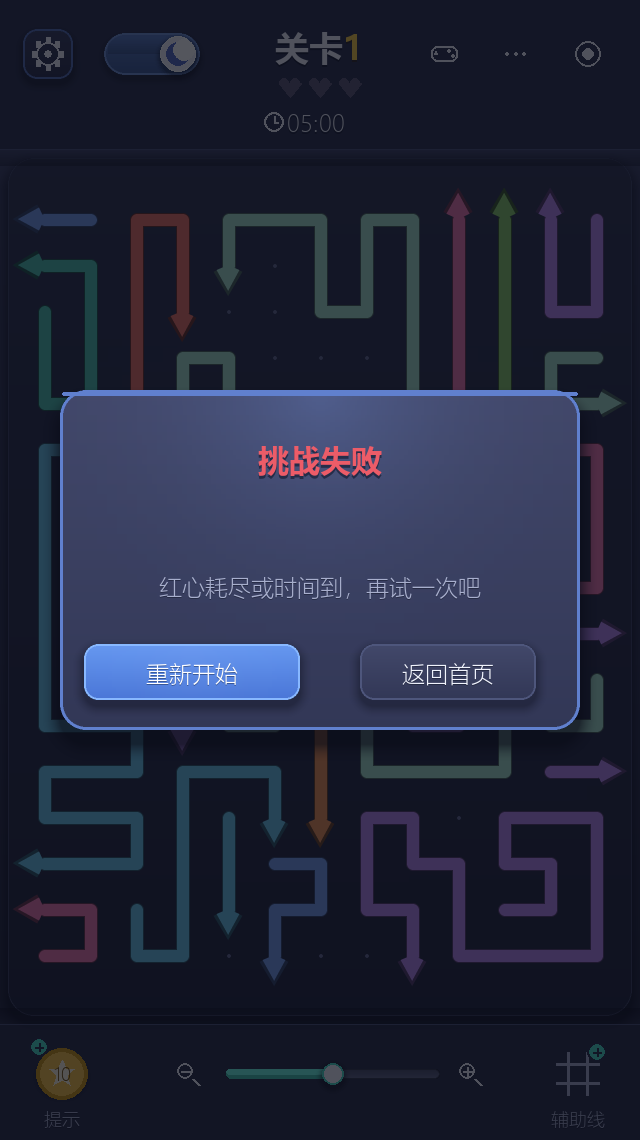
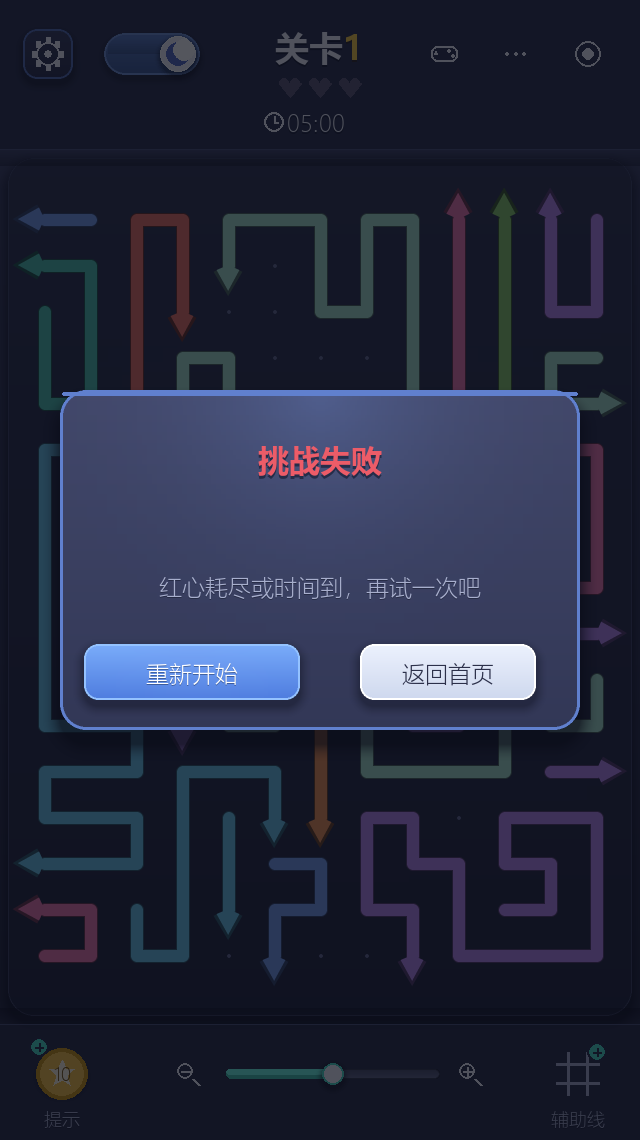
docs: 规则页排版修复与柔雾背景的说明、测试记录 T17、AIGC 记录，重出截图
- README：新增按钮配色（主次深浅反过来）与文字排版两节；界面观感一节补柔雾；
  344 -> 352 个用例
- docs/design.md：8.2 重写为「渐变 + 柔雾 + 柔光」（含「为什么对局中不铺雾」
  与「为什么预合成」）、8.4 补主次按钮配色表、8.6 性能表更新、新增 8.8
  「文字排版：按宽度折行」（切单元 / 贪心 / 均衡 / 避头尾 / 按内容排版）
- docs/test-record.md：标题升到 T01–T17、汇总 352 passed，新增 T17
  （含两条测试基建的坑：圆角外的底板污染「最暗像素」、日间的雾是压暗不是提亮）
- AIGC记录.md：汇总表新增第 21 行（规则页排版）与第 22 行（背景柔雾 + 按键配色）
- 截图重出 9 张（规则页排版与配色都变了）

Changed region(s): [[0.5625, 0.5526, 0.8438, 0.614]]

diff --git a/AIGC记录.md b/AIGC记录.md
@@ -30,6 +30,8 @@
 | 18 | 棋盘格子数加密到约 1.4 倍 | DeepSeek | 玩家要求「棋盘格子数增加」 | 先按 640×1140 画布实算三档密度再让用户选（格子 44→31→24 px、线宽 13→9→7 px），选了中间的 1.4 倍档；字母关 `DEFAULT_SCALE` 2→3（16×12 → **23×17**，391 格），基础关尺寸整体放大（12×9 → 17×13，最大到 25×19），随机关尺寸表同步放大；`MAX_PIECE` 14→20（笔画变宽，一支箭可以吃更长） | 棋盘更精细、字母弧线明显平滑；箭数 15.9 → 29.0（平均）；全量 338 个用例通过；最贵一档整帧 3.32 → 6.02 ms，仍在 16.7 ms 预算的三分之一；放大到最大时 12 关全部不横向溢出 | 加密本身没动几何计算（格子按可视区反算，改数据即可），但把**生成参数**带偏了：难度曲线出现小反转 —— 每关都在自己上限内独立挑「最满」的一版，实际值可能反而比上一关高。修法是上限跟着上一关**实际值**往下压，且压不动时**换种子重试**，并按 `(是否满足上限, 填充率)` 取最优（只压难度会让填充率掉到 0.887） |
 | 19 | 顶栏靶心按钮改「返回来处」 | DeepSeek | 玩家反馈「随机关卡，点圆圈没有退回到首页，又退回到基础关卡选择页面」 | 第 17 行只把它改成「按 `self.track` 分派」，而随机关卡借用了 basic 这条线，于是仍被当成基础关塞进基础选关页。这次改成认**来路**：`main.py` 加 `self.play_origin`，三个入口各自登记（基础选关页 / 字母选关页 / 开始页），靶心改接新的 `leave_level()` 按来路分派 | 基础 → 基础选关页、字母 → 字母选关页、随机 → **开始页**；新增 2 条回归用例（含「玩过随机之后再进基础关，来路不会被上一次污染」），改 1 条；全量 344 个用例通过 | 「按当前模式分派」对**不属于任何模式的入口**天然失灵 —— 随机关没有自己的选关页，只能借用别人的，于是永远回错。凡是「返回」语义，记来路比猜模式可靠；第 17 行只修了「回错哪一页」，没问「它本来该回哪一页」 |
 | 20 | 标题改成卡通贴纸风拼装艺术字 | DeepSeek | 玩家给了一张参考截图：「开始界面的艺术字我想要截图这里面类似的」（奶白字面 + 粗黑描边 + 浅色外圈，两个「一」是红 / 蓝圆头横杠，末尾「箭」换绿色） | `art_text` 新增 `outline2` / `outline2_width`（外圈铺大圆盘、内圈盖上去，只留一圈宽）与 `lift`（描边整体下移、字面不动 → 底部边更厚，字浮在边上）；新增 `art_bar`（圆头胶囊横条，`pad` 算法与 `art_text` 逐项对齐）与 `art_banner`（横向按**墨迹边界**排布，避免每片四周的描边留白变成片间距）；`theme` 补 5 个配色字段，日夜各一套 | 标题从「一段渐变文字」变成五片拼装（红条 / 箭 / 又 / 蓝条 / 绿箭），占屏宽 79%；全量 344 个用例通过；开始页整帧 2.90 ms | 中间挖出两个坑：① 描边宽度一直用的是「超采样像素」而 `pad` 是「原始像素」，两边没统一，标称 6 px 的描边实际只有 2 px、外圈细到缩回后被平均成灰色；② 单位统一后圆盘半径变 18，逐点 blit 一次 42 ms、整页首帧 210 ms，改在 1/2 分辨率做膨胀再放大回来，首帧降到 62 ms |
+| 21 | 规则页「怎么玩」文字排布 | DeepSeek | 玩家反馈「玩法规则这一页怎么玩这一栏文字排布不对」 | 根因是正文**写死一行**：26 字 × 23 px = 598 px，而卡片内宽只有 540 px，句子直接画到卡片外面（不报错、不抛异常、测试也照样过）；按键表右列的「缩放棋盘（也可用 - 与 =）」同样超出 8 px。新增 `paint.wrap_text()`（切单元 → 贪心 → **二分有效宽度做均衡** → 避头尾），规则页改成 `_compute_rules_layout()` **按内容累加**：先折行拿到正文行数，再据此算每块面板的高度，结果算一次缓存 | 三句话各折成两行且宽度摊匀（322/299、299/299、299/276），标点不落行首，全角括号整段不拆；三块面板依次下移、返回按钮跟着走；新增 8 条用例（含「量文字实际渲染宽度」的核心回归），全量 352 个用例通过 | 纯贪心折出的是「满满一行 + 两三个字的尾巴」（`…方向飞出` / `…颗红心` / `…失败`），很难看 —— 均衡折行才是对的做法；这类溢出**不会报错**，只能靠「量渲染宽度」的测试兜住 |
+| 22 | 背景柔雾 + 按键配色 | DeepSeek | 玩家要求「开始界面的背景换成跟截图里面类似的（但要有一定改动），按键配色也是」 | 先逐像素采样参考图，确认它用的就是本项目的**日间**配色（按钮蓝 `117,166,243 → 89,140,228`、文字 `42,46,70`、进度条 `38,176,164` 全部对得上），于是方向定为「同一套结构，夜间换深色底」。新增 `Palette.fog`（四团错开的柔雾，**只在非对局界面**铺 —— 对局中会压住棋盘）、`paint.fog_layer()` 预合成成一张整屏贴图；新增 `Palette.ghost_*`，次要按钮从「深底白字」改成**浅色纸片 + 深字**（夜间的纸片是浅蓝白，纯白会晃眼） | 菜单类界面有了雾面层次，开始页按钮是「蓝 / 白 / 蓝 / 白」的节奏；柔雾让开始页 2.90 → 4.15 ms，预合成之后回到 3.38 ms；新增 2 条用例，全量 352 个通过 | 日间的雾是**压暗**而不是提亮（浅底叠淡蓝会降亮度），断言不能假定方向；旧的「次按钮比主按钮暗」那条断言的前提随设计反转一起作废，改成量「纸片比蓝底亮 / 蓝底明显偏蓝 / 纸片上是深字」 |
 
 ---
 

diff --git a/docs/test-record.md b/docs/test-record.md
@@ -1,8 +1,8 @@
-# 测试记录（T01 – T16）
+# 测试记录（T01 – T17）
 
 - 运行环境：Windows 11 / Python 3.14.0 / pygame-ce 2.5.8 / pytest 9.x
 - 运行方式：项目根目录执行 `python -m pytest -q`（测试在 SDL dummy 驱动下无窗口运行）
-- 汇总结果：**344 passed**，耗时约 16.0 s
+- 汇总结果：**352 passed**，耗时约 22.3 s
 
 ---
 
@@ -501,6 +501,58 @@
 
 ---
 
+## T17 规则页文字排版 + 柔雾背景 + 按键配色
+
+- **缘起**：玩家反馈三件事 ——
+  1. 「玩法规则」页的「怎么玩」那一栏**文字排布不对**；
+  2. 开始页的背景换成参考图那种（原话：「换成跟截图里面类似的，但要有一定改动」）；
+  3. 按键配色也是。
+- **改了**：
+  - `paint.wrap_text()`：按像素宽度折行 —— 切单元（连续的 ASCII 一个单元、一对全角
+    括号连同内容一个单元）→ 贪心 → **二分有效宽度做均衡** → 避头尾；
+  - 规则页改成**按内容排版**：`_compute_rules_layout()` 先折行拿到正文行数，据此算
+    「怎么玩」的高度，后面两块面板依次往下排，结果算一次缓存起来；按键功能表的说明
+    同样折行；
+  - `Palette.fog`：四团错开的柔雾，**只在非对局界面**铺；`paint.fog_layer()` 把它
+    预合成成一张整屏贴图，每帧一次 blit；
+  - `Palette.ghost_*`：次要按钮从「跟卡片同色的深底白字」改成**浅色纸片 + 深字**。
+- **用例**：
+  1. **折行不超宽**：四档宽度下每行都不超过给定宽度，且**一个字都不丢**；
+  2. **均衡**：`清空本关全部线段即通关；红心耗尽或倒计时归零则失败` 在 540 px 下应是
+     2 行、且短行不短于长行的 75%（纯贪心会是 529 + 46）；
+  3. **避头尾**：除第一行外，任何一行都不以 `，。、；：？！）】》」』` 开头；
+  4. **括号不拆**：`缩放棋盘（也可用 - 与 =）` 折成 `缩放棋盘` + `（也可用 - 与 =）`；
+     放得下时（`显示 / 隐藏辅助线`）不许没事找事地折；
+  5. **规则页文字不溢出**（核心回归）：量的是 `font.size(line)[0] <= 卡片内宽`，
+     覆盖「怎么玩」正文与按键表十个条目；
+  6. **面板依次堆叠**不重叠，返回按钮的位置与版式一致；
+  7. **版式只算一次**（同一对象），不许每帧重算折行；
+  8. **柔雾**：菜单类界面上雾确实改变了那一点的颜色（|Δ| > 12），
+     **对局中那一点就是纯渐变**（|Δ| ≤ 2）；
+  9. `Palette` 新字段（`ghost_*` / `fog`）的格式校验，且纸片一定「底比字亮」。
+- **预期**：全部通过。
+- **实际**：
+  - 先按纯贪心折行出了图，发现三句话都折成「满满一行 + 两三个字的尾巴」
+    （`…方向飞出` / `…颗红心` / `…失败`），很难看 —— 于是补了均衡折行；
+  - 又发现按键表的 `缩放棋盘（也可用 - 与 =）` 折在「（也」中间，于是把全角括号
+    连同内容做成一个不可拆单元，折成「缩放棋盘 /（也可用 - 与 =）」；
+  - 老的一条断言 `test_ghost_button_is_quieter_than_the_primary_one` 挂了 —— 它的
+    前提是「次按钮比主按钮暗」，而新设计里两者深浅是**反过来**的。改成量「纸片比
+    蓝底亮 120 以上」「主按钮的蓝通道比红通道高 60」「纸片内部最暗的像素比蓝底
+    内部最暗的低 100」；
+  - 顺手踩到两个测试基建的坑：`_button_image()` 的底板是深色，直接在整个 surface 上
+    找「最暗像素」会取到**圆角外的底板**（59），统计范围要缩进按钮内部并躲开圆角；
+    日间的柔雾是**压暗**而不是提亮（浅底叠淡蓝），断言不能假定方向。
+  - 全量 **352 个用例**全过（22.3 s）。
+- **性能**：柔雾让开始页从 2.90 → 4.15 ms，预合成成一层之后回到 **3.38 ms**；规则页
+  正文从 3 行变 6 行，多约 1 ms 的文字光栅化（中位 8.89 ms），仍在预算内。
+- **结论**：规则页的三块面板现在按内容排布，改文案不会再溢出；菜单类界面的背景多了
+  一层雾面；开始页的按钮是「蓝 / 白」交替。参考图（浅底那张设计稿）用的就是本项目
+  的**日间**配色（按钮蓝 `117,166,243 → 89,140,228`、文字 `42,46,70`、进度条
+  `38,176,164` 全部对得上），所以日间主题下两者基本重合，夜间是同一套结构换深色底。
+
+---
+
 ## 未覆盖 / 已知限制
 
 - `game/audio.py` 的音效只在有真实音频设备时才会响，测试环境用 dummy 驱动，只验证了
@@ -513,3 +565,6 @@
   时间变化的动画量），记得那个键要显式塞进时间戳，否则会一直返回第一帧的贴图。
 - 随机关卡的质量依赖随机种子，`random_level()` 有兜底逻辑（逐个形状重试 + 矩形退化），
   但没有对「每一局都必然生成成功」做穷举验证。
+- **文字没有缓存**：`_draw_text` / `text_shadow` 每帧都现 `font.render`，规则页正文
+  折到 6 行之后这一项约 1 ms。文字内容是静态的，真要压可以按（字体, 文字, 颜色）
+  缓存一张贴图，只是目前没必要 —— 中位 8.89 ms 离 16.7 ms 还远。

diff --git a/README.md b/README.md
@@ -76,14 +76,21 @@ python main.py
 - **线段的画法**（对着参考录屏逐像素量的）：线宽取格距的 0.30（约 1/4 格，最粗封顶 15 px）；箭头是一枚**飞镖**而非等腰三角（两枚倒钩前掠、后缘向内兜住线身），
   整支箭外面再描一圈比线身压暗一档的**外描边**（色相不变，深色底压狠、浅色底压轻），
   线与线挨在一起时不会糊成一片。详见 `docs/design.md` 7.2。
-- **界面观感**：整页背景是竖向渐变 + 棋盘后方一团柔光；棋盘垫在一块圆角面板上；
-  顶栏底栏是半透明「玻璃」加一道渐隐阴影；按钮、卡片、菜单项、滑杆都是渐变填充 +
-  细描边 + 投影，悬停提亮描边、按下整体下沉 2 像素。所有贴图都按参数缓存，
-  一帧只是几次 `blit`。开始页标题「一箭又一箭」是**拼装出来的卡通贴纸字**：渐变的
-  奶白字面 + 近黑内描边 + 浅色外描边（三层对比，日夜底色上都读得清），描边整体下移
-  几个像素、字面不动，字就浮在边上了；两个「一」不写汉字，直接是红 / 蓝的圆头横杠，
-  末尾的「箭」换成绿色收尾。做法是「先把文字放大 3 倍、在放大空间里按圆盘铺描边、
-  再缩回」，斜笔的描边因此等宽又平滑。详见 `docs/design.md` 第 8.7 节。
+- **界面观感**：整页背景是竖向渐变 + 一组错开的**柔雾**（左上靛蓝 / 右上紫 / 左下青 /
+  右下蓝，只在菜单类界面上铺，对局中不铺 —— 雾会压住棋盘的可读性）+ 棋盘后方一团柔光；
+  棋盘垫在一块圆角面板上；顶栏底栏是半透明「玻璃」加一道渐隐阴影；按钮、卡片、菜单项、
+  滑杆都是渐变填充 + 细描边 + 投影，悬停提亮描边、按下整体下沉 2 像素。所有贴图都按
+  参数缓存，一帧只是几次 `blit`。
+- **按钮配色**：主次按钮的**深浅是反过来的** —— 主按钮（基础玩法 / 字母玩法）是蓝色
+  实心 + 白字，次按钮（规则介绍 / 随机关卡 / 返回）是**浅色纸片 + 深字**。一整列按钮
+  因此是「蓝 / 白 / 蓝 / 白」的节奏，而不是一片同色。
+- **开始页标题**：「一箭又一箭」是**拼装出来的卡通贴纸字**：渐变的奶白字面 + 近黑内
+  描边 + 浅色外描边（三层对比，日夜底色上都读得清），描边整体下移几个像素、字面不动，
+  字就浮在边上了；两个「一」不写汉字，直接是红 / 蓝的圆头横杠，末尾的「箭」换成绿色
+  收尾。做法是「先把文字放大 3 倍、在放大空间里按圆盘铺描边、再缩回」，斜笔的描边
+  因此等宽又平滑。详见 `docs/design.md` 第 8.7 节。
+- **文字排版**：说明文字一律按卡片宽度**自动折行**（均衡 + 避头尾 + 括号不拆），面板
+  高度按折出来的行数算 —— 文案改长了版面会自己长高，不会顶出卡片。详见 8.8 节。
 
 ## 项目结构
 
@@ -128,7 +135,7 @@ arrow-after-arrow/
 ## 测试与工具
 
 ```bash
-python -m pytest -q                    # 344 个用例，无窗口运行
+python -m pytest -q                    # 352 个用例，无窗口运行
 python tools/generate_levels.py        # 重新生成基础玩法 12 关
 python tools/generate_levels.py --check  # 校验现有 level.py：可通、可解、有阻挡
 python tools/generate_levels.py --stats  # 打印 12 关的难度表
